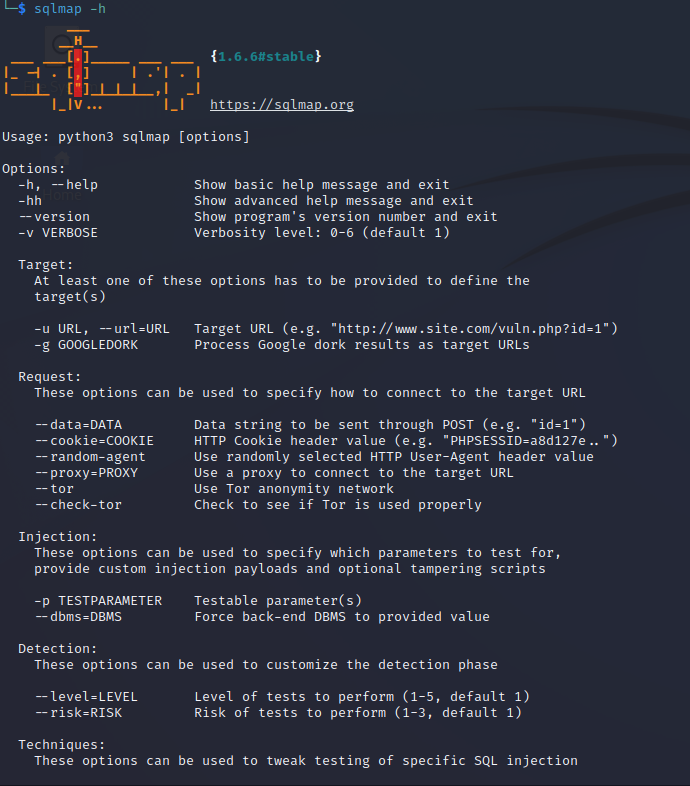
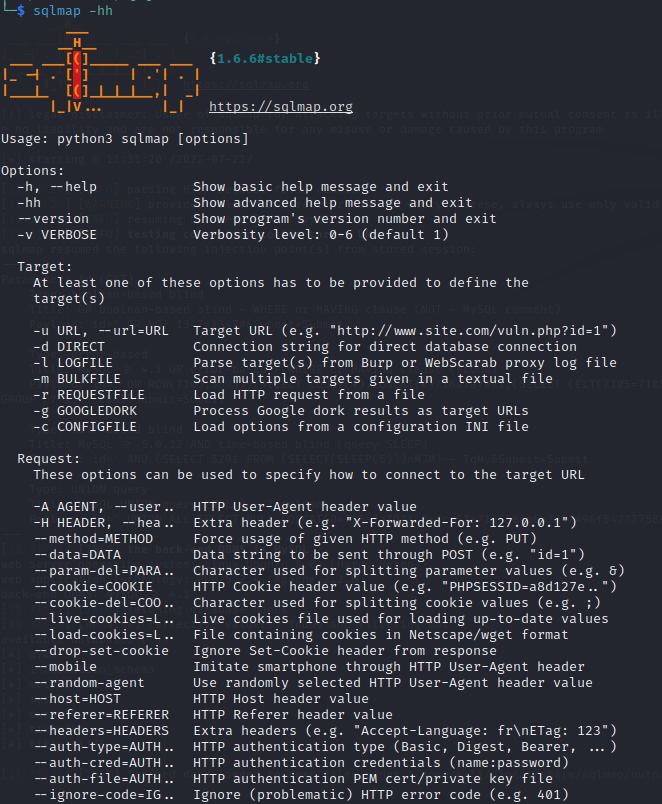
update sqlmap

diff --git a/_posts/#2022-07-22-day_037_sqlmap.md b/_posts/#2022-07-22-day_037_sqlmap.md
@@ -68,7 +68,11 @@ The following steps will show basic usage of sqlmap to retrieve usernames and pa
 
 I know we have not covered BurpSuite or OWASP ZAP, or other web traffic intercept methods, but I will give a brief overview of how I captured cookie data from BurpSuite.
 
-I won't show how to install, configure or use BurpSuite today, as that is a series of blog posts for a future time. 
+I won't show how to install, configure or use BurpSuite today, as that is a series of blog posts for a future time.
+
+Before we begin, use the following command to view the advanced help page for using sqlmap `sqlmap -hh`
+
+![](https://raw.githubusercontent.com/matthewomccorkle/matthewomccorkle.github.io/master/_posts/assets/100%20tools/sqlmap/sqlmap1.PNG)
 
     Step 1:
     Open Burpsuite, navigate to Proxy -> Intercept
@@ -79,32 +83,119 @@ I won't show how to install, configure or use BurpSuite today, as that is a seri
 
 <br>
 
-![]()
+![](https://raw.githubusercontent.com/matthewomccorkle/matthewomccorkle.github.io/master/_posts/assets/100%20tools/sqlmap/burp1.PNG)
 
     Step 2:
     Navigate to the page you want to test for SQL injection.
 
-    This will activate the intercept mode in Burpsuite where you will need to click "Forward" until the page is loaded.
+    This will activate the intercept mode in Burpsuite where you will need 
+    to click "Forward" until the page is loaded.
 
 <br>
 
-![]()
+![](https://raw.githubusercontent.com/matthewomccorkle/matthewomccorkle.github.io/master/_posts/assets/100%20tools/sqlmap/burp2.PNG)
 
-
-
-    Active the SQL injection form by clicking login, submit, enter, etc. 
+    Step 3:
+    On the website you navigated to, activte the SQL form by clicking login, submit, enter, etc. 
 
     For DVWA, the button is labeled "Submit"
 
-    This will activate Burpsuite 
+    This will activate Burpsuite again to capture the traffic, you will need to click forward to submit the traffic. 
+
+<br>
+
+![](https://raw.githubusercontent.com/matthewomccorkle/matthewomccorkle.github.io/master/_posts/assets/100%20tools/sqlmap/burp3.PNG)
+
+    Step 4:
+    In Burpsuite navigate to Proxy -> HTTP History
+
+    Look for the request you made to the SQL page.
+
+    (a) Copy the entire request and save it in a file on your 
+    Linux device where you will run sqlmap.
+
+    (b) Copy the line labeled "Cookie" and save that in a notepad or file for 
+    use in the sqlmap command. Mine is line 9 in the image below.
+
+<br>
+
+![](https://raw.githubusercontent.com/matthewomccorkle/matthewomccorkle.github.io/master/_posts/assets/100%20tools/sqlmap/burp4.PNG)
 
 
+
+    Step 5 (SQL Map Begins Here):
+    The first step is to find out if sqlmap will work on our website and 
+    what database management system is used.
+
+    In your terminal enter the following:
+
+`sqlmap -r <file_from_step_4(a)>  --cookie="cookie_line_from_step_4(b)"`
+
+<br>
+
+![](https://raw.githubusercontent.com/matthewomccorkle/matthewomccorkle.github.io/master/_posts/assets/100%20tools/sqlmap/sqlmap2.PNG)
+
+From the returned results in our initial sqlmap scan we see that multiple injectable parameters exist. 
+
+    Step 6:
+    Next, we want to determine the names of databases that may exist.
+
+    We will add --dbs to our command from step 5 which 
+    enumerates the DBMS databases.
+
+    In your terminal enter the following:
+
+`sqlmap -r <file_from_step_4(a)>  --cookie="cookie_line_from_step_4(b)" --dbs`
+
+<br>
+
+![](https://raw.githubusercontent.com/matthewomccorkle/matthewomccorkle.github.io/master/_posts/assets/100%20tools/sqlmap/sqlmap5.PNG)
+
+sqlmap found seven databases on DVWA, we are going to look at the "dvwa" database.
+
+    Step 7:
+    Next we need to find what tables exist within the DVWA database.
+
+    We will use -D to designate the database and 
+    --tables to enumerate tables.
+
+    In your terminal enter the following:
+
+`sqlmap -r <file_from_step_4(a)>  --cookie="cookie_line_from_step_4(b)" -D dvwa --tables`
+
+<br>
+
+![](https://raw.githubusercontent.com/matthewomccorkle/matthewomccorkle.github.io/master/_posts/assets/100%20tools/sqlmap/sqlmap5.PNG)
+
+sqlmap found "users" and "guestbook" tables inside the DVWA database.
+
+    Step 8:
+    Since we found the users table of the database lets try and enumerate the users and possibly find the passwords associated with them.
+
+    Using -T identifies the table we are enumerating.
+    Using --dump dumps the contents of the tables to your standard output.
+
+    In your terminal enter the following command:
+
+`sqlmap -r <file_from_step_4(a)>  --cookie="cookie_line_from_step_4(b)" -D dvwa -T users --dump`
+
+<br>
+
+![](https://raw.githubusercontent.com/matthewomccorkle/matthewomccorkle.github.io/master/_posts/assets/100%20tools/sqlmap/sqlmap4.PNG)
+
+From this user enumeration we are offered the option to store password hashes found for hash cracking and sqlmap even offers the opportunity to crack the hashes using a dictionary attack in the command. 
+
+This is as far as I am taking this tool today, this shows that sqlmap is a simple (slightly advanced) tool to use for sql injection testing, if you want to perform further and in-depth use of sqlmap take a look at the advanced help page by typing `sqlmap -hh`.
 
 ---
 
 ### 6. **Summary**
 
+sqlmap is great for penetration testers that want to quickly test web applications for sql injectable parameters. 
 
+If the web application is injectable sql map can perform a number of enumeration methods and attacks on the database to help a tester gain entry.
+
+Security researchers and database managers could use sqlmap to understand the vulnerabilities that may exist in their sql database configurations.
 
 I hope you enjoyed this blog post.
 
